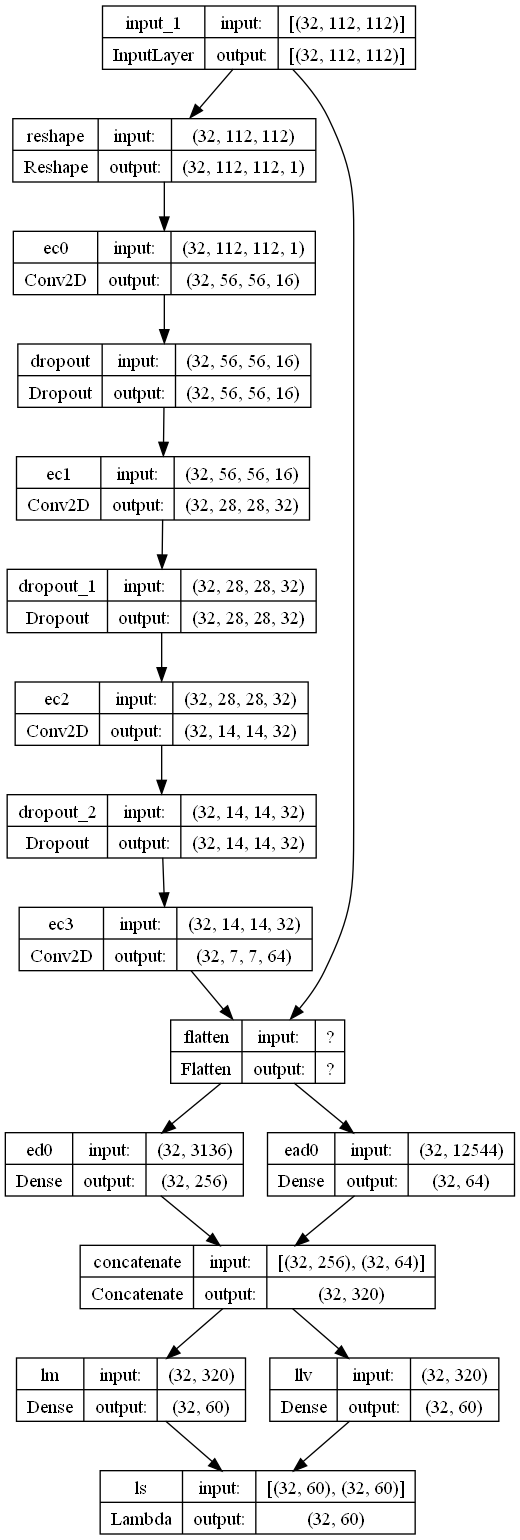
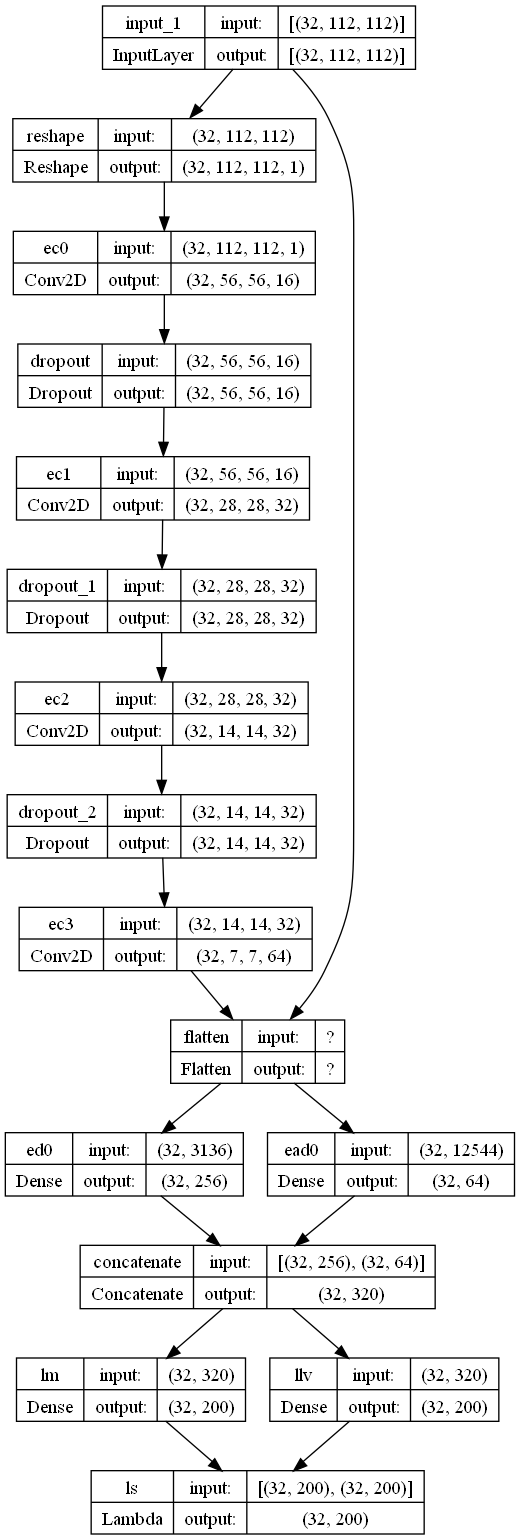
test: last layer relu -> tanh (failed)

diff --git a/Image Processing/Project 003. 흑백 이미지 컬러화 (생성형 AI 적용)/train.py b/Image Processing/Project 003. 흑백 이미지 컬러화 (생성형 AI 적용)/train.py
@@ -13,7 +13,7 @@ import cv2
 
 
 INPUT_IMG_SIZE = 112
-HIDDEN_DIMS = 60
+HIDDEN_DIMS = 200
 TOTAL_PIXELS = INPUT_IMG_SIZE * INPUT_IMG_SIZE
 BATCH_SIZE = 32
 MSE_LOSS_WEIGHT_CONSTANT = 5.0
@@ -62,21 +62,21 @@ class Main_Model:
         self.decoder_map_e2 = layers.Conv2D(64, (3, 3), strides=2, activation='relu', padding='same', kernel_regularizer=L2, name='dmap_e2')
         self.decoder_map_e3 = layers.Conv2D(128, (3, 3), strides=2, activation='relu', padding='same', kernel_regularizer=L2, name='dmap_e3')
 
-        # latent vector (60) 과 결합하여 (60 + 16 = 76) 으로 만든 이후 decoder_map_d0 레이어로 이동
-        self.decoder_map_bottleneck = layers.Dense(16, activation='relu', name='dmap_bottleneck')
+        # latent vector (200) 과 결합하여 (200 + 100 = 300) 으로 만든 이후 decoder_map_d0 레이어로 이동
+        self.decoder_map_bottleneck = layers.Dense(100, activation='relu', name='dmap_bottleneck')
         self.decoder_map_bottleneck_restore = layers.Dense(128 * (INPUT_IMG_SIZE // 16) * (INPUT_IMG_SIZE // 16), activation='relu', name='dmap_bottleneck_restore')
 
         # for x coordinate
         self.decoder_map_d0_x = layers.Conv2DTranspose(64, (3, 3), strides=2, activation='relu', padding='same', kernel_regularizer=L2, name='dmap_d0_x')
         self.decoder_map_d1_x = layers.Conv2DTranspose(32, (3, 3), strides=2, activation='relu', padding='same', kernel_regularizer=L2, name='dmap_d1_x')
         self.decoder_map_d2_x = layers.Conv2DTranspose(16, (3, 3), strides=2, activation='relu', padding='same', kernel_regularizer=L2, name='dmap_d2_x')
-        self.decoder_map_d3_x = layers.Conv2DTranspose(1, (3, 3), strides=2, activation='relu', padding='same', kernel_regularizer=L2, name='dmap_d3_x')
+        self.decoder_map_d3_x = layers.Conv2DTranspose(1, (3, 3), strides=2, activation='tanh', padding='same', kernel_regularizer=L2, name='dmap_d3_x')
 
         # for y coordinate
         self.decoder_map_d0_y = layers.Conv2DTranspose(64, (3, 3), strides=2, activation='relu', padding='same', kernel_regularizer=L2, name='dmap_d0_y')
         self.decoder_map_d1_y = layers.Conv2DTranspose(32, (3, 3), strides=2, activation='relu', padding='same', kernel_regularizer=L2, name='dmap_d1_y')
         self.decoder_map_d2_y = layers.Conv2DTranspose(16, (3, 3), strides=2, activation='relu', padding='same', kernel_regularizer=L2, name='dmap_d2_y')
-        self.decoder_map_d3_y = layers.Conv2DTranspose(1, (3, 3), strides=2, activation='relu', padding='same', kernel_regularizer=L2, name='dmap_d3_y')
+        self.decoder_map_d3_y = layers.Conv2DTranspose(1, (3, 3), strides=2, activation='tanh', padding='same', kernel_regularizer=L2, name='dmap_d3_y')
         
         # encoder (main stream)
         input_image = layers.Input(batch_shape=(BATCH_SIZE, INPUT_IMG_SIZE, INPUT_IMG_SIZE))

diff --git a/Image Processing/Project 003. 흑백 이미지 컬러화 (생성형 AI 적용)/test.py b/Image Processing/Project 003. 흑백 이미지 컬러화 (생성형 AI 적용)/test.py
@@ -9,7 +9,7 @@ RESIZE_HEIGHT = 144
 RESIZE_WIDTH = 112
 CROP_HEIGHT = (RESIZE_HEIGHT - RESIZE_WIDTH) // 2
 
-HIDDEN_DIMS = 60
+HIDDEN_DIMS = 200
 BATCH_SIZE = 32
 
 decoder_model = tf.keras.models.load_model('main_vae_decoder')
@@ -58,6 +58,12 @@ def compute_hue(x, y):
 def generate_test_result_image(image, coord_x, coord_y, img_name):
     hsv_array = np.zeros((RESIZE_WIDTH, RESIZE_WIDTH, 3))
 
+    print('\n ==== coord_x ====')
+    print(coord_x)
+
+    print('\n ==== coord_y ====')
+    print(coord_y)
+
     for i in range(RESIZE_WIDTH):
         for j in range(RESIZE_WIDTH):
             hue = compute_hue(coord_x[i][j], coord_y[i][j])
@@ -69,9 +75,13 @@ def generate_test_result_image(image, coord_x, coord_y, img_name):
             hsv_array[i][j][2] = 255.0 * brightness
 
     hsv_array = np.array(hsv_array).astype(np.float32)
+
+    print('\n ==== HSV ====')
     print(hsv_array)
     
     final_image = cv2.cvtColor(hsv_array, cv2.COLOR_HSV2BGR)
+
+    print('\n ==== final image ====')
     print(final_image)
     
     cv2.imwrite(f'test_output/{img_name}.png', final_image)
@@ -103,6 +113,8 @@ def run_test():
 
 
 if __name__ == '__main__':
+    np.set_printoptions(linewidth=160)
+    
     crop_and_resize()
     create_test_output_dir()
     run_test()
